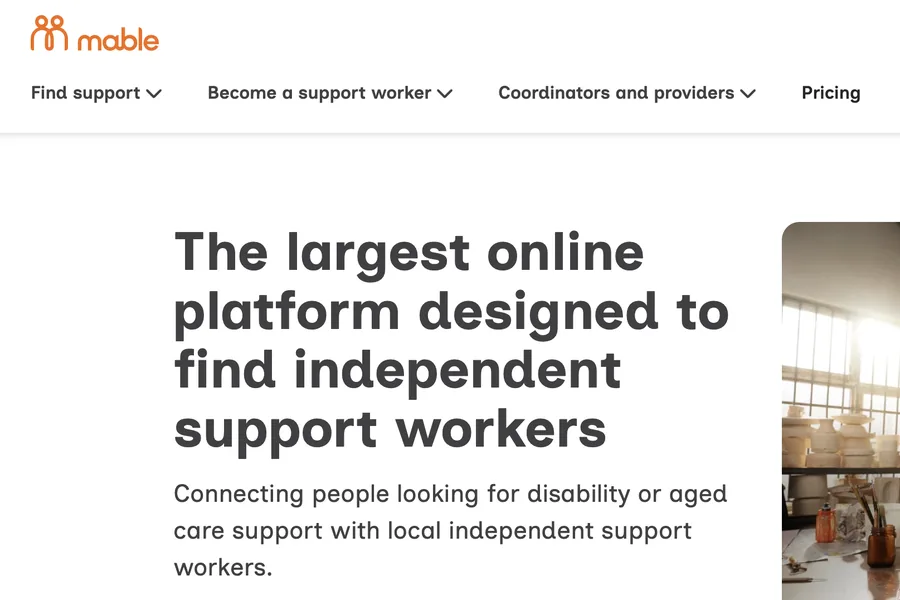
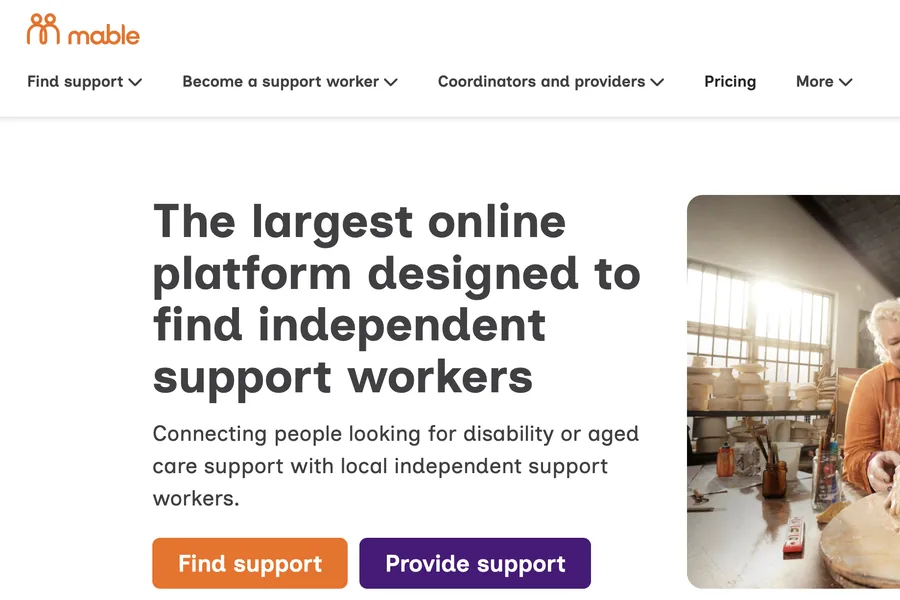
Los tres casos-modelo vuelven a captura, mejor encuadrada
Captura en los seis. Vitable y Mable con un encuadre del hero más amplio
(titular completo y su línea de apoyo) y se quita el degradado inferior que
lavaba y cortaba la parte baja de la imagen. Kleinanzeigen entera.

diff --git a/index.html b/index.html
@@ -900,8 +900,7 @@ button.btn[type="submit"]:disabled::after{content:"";display:inline-block;width:
 .web-bar i{width:7px;height:7px;border-radius:50%;background:var(--line-strong);flex:none}
 .web-bar code{margin-left:8px;font:500 12px/1.4 var(--mono);color:var(--muted);white-space:nowrap;overflow:hidden;text-overflow:ellipsis}
 .web-frame{position:relative;display:block;overflow:hidden}
-.web-frame::after{content:"";position:absolute;left:0;right:0;bottom:0;height:64px;pointer-events:none;
-  background:linear-gradient(to bottom,rgba(254,252,248,0),var(--card))}
+
 .web-shot{width:100%;aspect-ratio:3/2;object-fit:cover;object-position:top center;display:block}
 .web-txt{display:flex;flex-direction:column;flex:1;padding:20px}
 .web-txt .wt{display:block;font-size:14px;color:var(--muted);line-height:1.5}
@@ -1172,7 +1171,7 @@ button.btn[type="submit"]:disabled::after{content:"";display:inline-block;width:
       </a></li>
       <li><div class="web-card web-card-model reveal">
         <span class="web-bar"><i></i><i></i><i></i><code data-i18n="projects.cases.0.domain">kleinanzeigen.de</code></span>
-        <span class="web-frame web-frame-logo"><img class="model-logo" src="clientes/mono/kleinanzeigen.png" width="150" height="26" loading="lazy" decoding="async" alt="Kleinanzeigen"></span>
+        <span class="web-frame"><picture><source srcset="casos/kleinanzeigen.webp" type="image/webp"><img class="web-shot" src="casos/kleinanzeigen.jpg" width="900" height="600" loading="lazy" decoding="async" alt="Página de inicio de kleinanzeigen.de"></picture></span>
         <span class="web-txt"><span class="wt wt-t" data-i18n="projects.cases.0.title">Valor de cliente a 12 meses</span>
         <span class="wt wt-p" data-i18n="projects.cases.0.problem">El problema: no sabían cuánto llegaría a valer un usuario recién registrado, así que captación y retención iban a ciegas.</span>
         <span class="wt wt-b" data-i18n="projects.cases.0.built">Qué construimos: un modelo predictivo que estima el valor a 12 meses de cada usuario a partir de más de 80 señales.</span>
@@ -1180,7 +1179,7 @@ button.btn[type="submit"]:disabled::after{content:"";display:inline-block;width:
       </div></li>
       <li><div class="web-card web-card-model reveal">
         <span class="web-bar"><i></i><i></i><i></i><code data-i18n="projects.cases.1.domain">vitable.com.au</code></span>
-        <span class="web-frame web-frame-logo"><img class="model-logo" src="clientes/mono/vitable.png" width="150" height="40" loading="lazy" decoding="async" alt="Vitable"></span>
+        <span class="web-frame"><picture><source srcset="casos/vitable.webp" type="image/webp"><img class="web-shot" src="casos/vitable.jpg" width="900" height="600" loading="lazy" decoding="async" alt="Página de inicio de vitable.com.au"></picture></span>
         <span class="web-txt"><span class="wt wt-t" data-i18n="projects.cases.1.title">Envío por el transportista más barato</span>
         <span class="wt wt-p" data-i18n="projects.cases.1.problem">El problema: cada pedido de vitaminas se enviaba sin optimizar el transportista, pagando de más en logística.</span>
         <span class="wt wt-b" data-i18n="projects.cases.1.built">Qué construimos: un algoritmo que elige el carrier más barato para cada pedido según destino, tamaño y urgencia del envío.</span>
@@ -1188,7 +1187,7 @@ button.btn[type="submit"]:disabled::after{content:"";display:inline-block;width:
       </div></li>
       <li><div class="web-card web-card-model reveal">
         <span class="web-bar"><i></i><i></i><i></i><code data-i18n="projects.cases.2.domain">mable.com.au</code></span>
-        <span class="web-frame web-frame-logo"><img class="model-logo" src="clientes/mono/mable.png" width="88" height="72" loading="lazy" decoding="async" alt="Mable"></span>
+        <span class="web-frame"><picture><source srcset="casos/mable.webp" type="image/webp"><img class="web-shot" src="casos/mable.jpg" width="900" height="600" loading="lazy" decoding="async" alt="Página de inicio de mable.com.au"></picture></span>
         <span class="web-txt"><span class="wt wt-t" data-i18n="projects.cases.2.title">Riesgo detectado en los partes de los cuidadores</span>
         <span class="wt wt-p" data-i18n="projects.cases.2.problem">El problema: al cerrar cada servicio, las notas del cuidador podían esconder una situación de riesgo que pasaba desapercibida.</span>
         <span class="wt wt-b" data-i18n="projects.cases.2.built">Qué construimos: un modelo de lenguaje lee cada parte, detecta señales de riesgo y avisa al equipo para que contacte al cuidador.</span>

diff --git a/en/index.html b/en/index.html
@@ -900,8 +900,7 @@ button.btn[type="submit"]:disabled::after{content:"";display:inline-block;width:
 .web-bar i{width:7px;height:7px;border-radius:50%;background:var(--line-strong);flex:none}
 .web-bar code{margin-left:8px;font:500 12px/1.4 var(--mono);color:var(--muted);white-space:nowrap;overflow:hidden;text-overflow:ellipsis}
 .web-frame{position:relative;display:block;overflow:hidden}
-.web-frame::after{content:"";position:absolute;left:0;right:0;bottom:0;height:64px;pointer-events:none;
-  background:linear-gradient(to bottom,rgba(254,252,248,0),var(--card))}
+
 .web-shot{width:100%;aspect-ratio:3/2;object-fit:cover;object-position:top center;display:block}
 .web-txt{display:flex;flex-direction:column;flex:1;padding:20px}
 .web-txt .wt{display:block;font-size:14px;color:var(--muted);line-height:1.5}
@@ -1172,7 +1171,7 @@ button.btn[type="submit"]:disabled::after{content:"";display:inline-block;width:
       </a></li>
       <li><div class="web-card web-card-model reveal">
         <span class="web-bar"><i></i><i></i><i></i><code data-i18n="projects.cases.0.domain">kleinanzeigen.de</code></span>
-        <span class="web-frame web-frame-logo"><img class="model-logo" src="/clientes/mono/kleinanzeigen.png" width="150" height="26" loading="lazy" decoding="async" alt="Kleinanzeigen"></span>
+        <span class="web-frame"><picture><source srcset="/casos/kleinanzeigen.webp" type="image/webp"><img class="web-shot" src="/casos/kleinanzeigen.jpg" width="900" height="600" loading="lazy" decoding="async" alt="Página de inicio de kleinanzeigen.de"></picture></span>
         <span class="web-txt"><span class="wt wt-t" data-i18n="projects.cases.0.title">12-month customer value</span>
         <span class="wt wt-p" data-i18n="projects.cases.0.problem">The problem: they couldn't tell how much a newly registered user would be worth, so acquisition and retention ran blind.</span>
         <span class="wt wt-b" data-i18n="projects.cases.0.built">What we built: a predictive model that estimates each user's 12-month value from more than 80 signals.</span>
@@ -1180,7 +1179,7 @@ button.btn[type="submit"]:disabled::after{content:"";display:inline-block;width:
       </div></li>
       <li><div class="web-card web-card-model reveal">
         <span class="web-bar"><i></i><i></i><i></i><code data-i18n="projects.cases.1.domain">vitable.com.au</code></span>
-        <span class="web-frame web-frame-logo"><img class="model-logo" src="/clientes/mono/vitable.png" width="150" height="40" loading="lazy" decoding="async" alt="Vitable"></span>
+        <span class="web-frame"><picture><source srcset="/casos/vitable.webp" type="image/webp"><img class="web-shot" src="/casos/vitable.jpg" width="900" height="600" loading="lazy" decoding="async" alt="Página de inicio de vitable.com.au"></picture></span>
         <span class="web-txt"><span class="wt wt-t" data-i18n="projects.cases.1.title">Shipping via the cheapest carrier</span>
         <span class="wt wt-p" data-i18n="projects.cases.1.problem">The problem: every vitamins order shipped without optimising the carrier, overpaying on logistics.</span>
         <span class="wt wt-b" data-i18n="projects.cases.1.built">What we built: an algorithm that picks the cheapest carrier for each order by destination, size and delivery speed.</span>
@@ -1188,7 +1187,7 @@ button.btn[type="submit"]:disabled::after{content:"";display:inline-block;width:
       </div></li>
       <li><div class="web-card web-card-model reveal">
         <span class="web-bar"><i></i><i></i><i></i><code data-i18n="projects.cases.2.domain">mable.com.au</code></span>
-        <span class="web-frame web-frame-logo"><img class="model-logo" src="/clientes/mono/mable.png" width="88" height="72" loading="lazy" decoding="async" alt="Mable"></span>
+        <span class="web-frame"><picture><source srcset="/casos/mable.webp" type="image/webp"><img class="web-shot" src="/casos/mable.jpg" width="900" height="600" loading="lazy" decoding="async" alt="Página de inicio de mable.com.au"></picture></span>
         <span class="web-txt"><span class="wt wt-t" data-i18n="projects.cases.2.title">Risk flagged in carer timesheets</span>
         <span class="wt wt-p" data-i18n="projects.cases.2.problem">The problem: when each service ended, a carer's notes could hide a risky situation that went unnoticed.</span>
         <span class="wt wt-b" data-i18n="projects.cases.2.built">What we built: a language model reads every timesheet, flags risk signals and alerts the team to contact the carer.</span>
